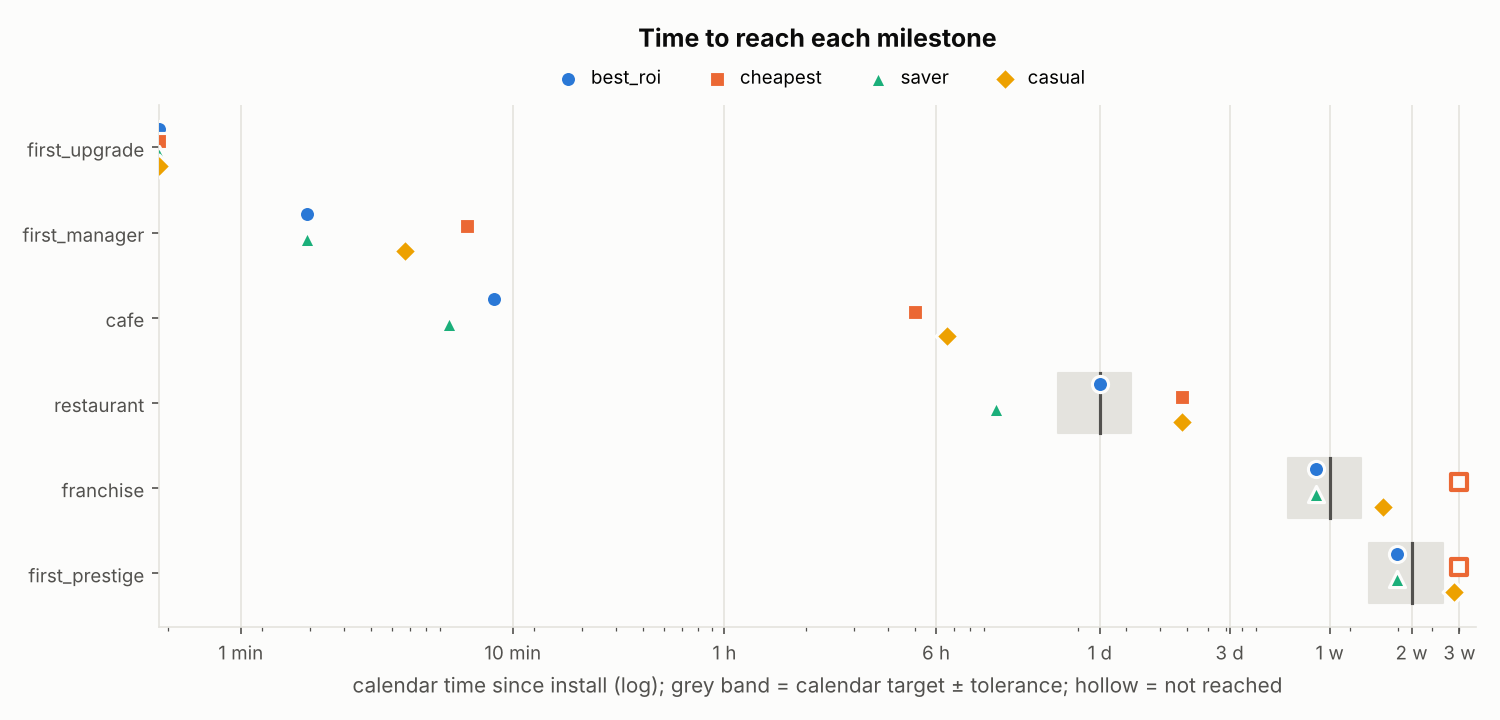
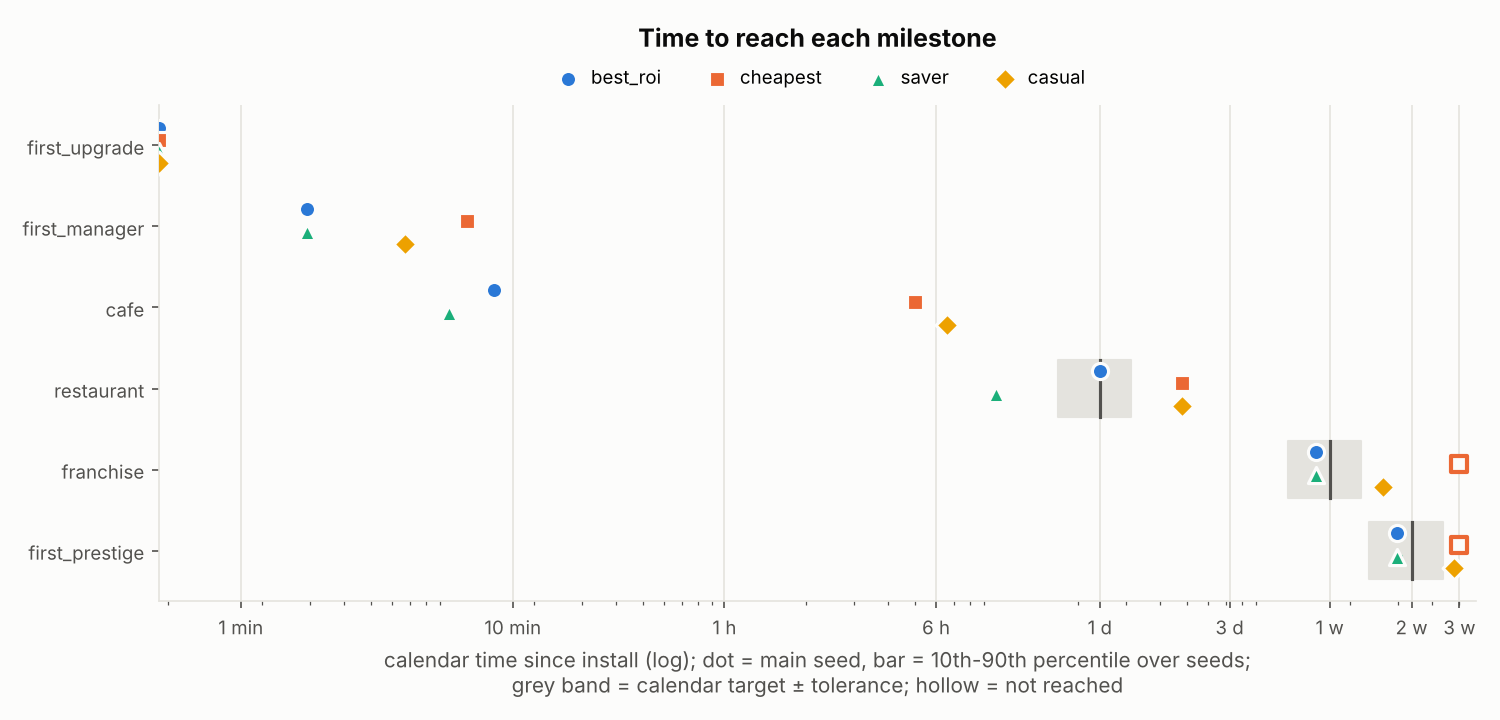
Open item: Monte Carlo milestone spread over all seeds (table, CSV, percentile bars in chart)
Claude-Session: https://claude.ai/code/session_01HGexuzMMLPAYFegdXfW6MP

diff --git a/doner_balance/report.py b/doner_balance/report.py
@@ -28,6 +28,7 @@ class ReportData:
     cfg: EconomyConfig
     results: dict[str, SimResult]
     milestones: pd.DataFrame
+    spread: pd.DataFrame
     zones: pd.DataFrame
     zone_summary: pd.DataFrame
     sources: pd.DataFrame
@@ -121,6 +122,12 @@ def build(
 
     _log("[2/6] analysing milestones, dead zones, income sources ...", quiet)
     ms = A.milestone_table(cfg, results)
+    n_seeds = 1 + len(cfg.simulation.extra_seeds)
+    if n_seeds > 1:
+        _log(f"      milestone spread: {len(cfg.strategies)} strategies x {n_seeds} seeds ...", quiet)
+        spread = A.milestone_spread(cfg, A.milestone_spread_runs(cfg, list(cfg.strategies), jobs=jobs))
+    else:
+        spread = pd.DataFrame(columns=["strategy", "milestone", "seeds", "reached", "median_h", "p10_h", "p90_h"])
     zones = pd.concat([A.dead_zones(cfg, r) for r in results.values()], ignore_index=True)
     zones["stage"] = zones["stage"].map(lambda c: A.stage_name(cfg, c))
     zsum = A.dead_zone_summary(cfg, zones, results)
@@ -159,7 +166,7 @@ def build(
     charts = {
         "income": C.income_chart(results, out_dir / "income_per_second.png"),
         "sources": C.income_sources_chart(sources, out_dir / "income_sources.png"),
-        "milestones": C.milestones_chart(cfg, ms, out_dir / "milestones.png"),
+        "milestones": C.milestones_chart(cfg, ms, out_dir / "milestones.png", spread),
         "dead_zones": C.dead_zones_chart(cfg, zones, list(results), out_dir / "dead_zones.png"),
         "payback": C.payback_chart(results, out_dir / "payback.png"),
     }
@@ -169,6 +176,7 @@ def build(
         )
         impact.to_csv(out_dir / "event_impact.csv", index=False)
     ms.to_csv(out_dir / "milestones.csv", index=False)
+    spread.to_csv(out_dir / "milestone_spread.csv", index=False)
     zones.to_csv(out_dir / "dead_zones.csv", index=False)
     zsum.to_csv(out_dir / "dead_zone_summary.csv", index=False)
     sources.to_csv(out_dir / "income_sources.csv", index=False)
@@ -229,6 +237,7 @@ def build(
         cfg,
         results,
         ms,
+        spread,
         zones,
         zsum,
         sources,
@@ -378,6 +387,26 @@ def render(d: ReportData, config_label: str, export_path: Path | None) -> str:
             row[m] = "—" if not v["reached"] else f"{fmt_h(v['calendar_h'])} ({fmt_h(v['active_min'] / 60)})"
         rows.append(row)
     w(md_table(pd.DataFrame(rows)))
+    if len(d.spread):
+        n_seeds = int(d.spread["seeds"].max())
+        w(
+            f"\nSpread over {n_seeds} seeds (`simulation.seed` + `extra_seeds`): median, and 10th–90th percentile in "
+            "brackets; a percentage means only that share of seeds reached the milestone.\n"
+        )
+        rows = []
+        for strat in d.results:
+            sub_ = d.spread[d.spread["strategy"] == strat].set_index("milestone")
+            row = {"strategy": strat}
+            for m in order:
+                v = sub_.loc[m]
+                if v["reached"] == 0:
+                    row[m] = "—"
+                    continue
+                lo, hi = fmt_h(v["p10_h"]), fmt_h(v["p90_h"])
+                cell = fmt_h(v["median_h"]) + ("" if lo == hi else f" ({lo}–{hi})")
+                row[m] = cell + (f" {v['reached']:.0%}" if v["reached"] < 1 else "")
+            rows.append(row)
+        w(md_table(pd.DataFrame(rows)))
     w(f"\n{_img(d, 'milestones')}\n")
 
     # ---------------------------------------------------------------- pacing
@@ -561,6 +590,7 @@ def render(d: ReportData, config_label: str, export_path: Path | None) -> str:
     w("| file | content |\n|---|---|")
     files = [
         ("milestones.csv", "time to every milestone per strategy (calendar h, play min)"),
+        ("milestone_spread.csv", "median / 10th / 90th percentile of every milestone over all seeds"),
         ("pacing_targets.csv", "targets, actual values, lever, elasticity, suggestion"),
         ("dead_zones.csv / dead_zone_summary.csv", "every dead zone and per-strategy totals"),
         ("income_sources.csv", "coins per day from taps / automation / offline"),

diff --git a/doner_balance/charts.py b/doner_balance/charts.py
@@ -214,7 +214,7 @@ def income_sources_chart(sources: pd.DataFrame, out: Path) -> Path:
     return _save(fig, out)
 
 
-def milestones_chart(cfg: EconomyConfig, table: pd.DataFrame, out: Path) -> Path:
+def milestones_chart(cfg: EconomyConfig, table: pd.DataFrame, out: Path, spread: pd.DataFrame | None = None) -> Path:
     _style()
     names = list(dict.fromkeys(table["strategy"]))
     colors, markers = strategy_colors(names), strategy_markers(names)
@@ -225,6 +225,18 @@ def milestones_chart(cfg: EconomyConfig, table: pd.DataFrame, out: Path) -> Path
         d = table[table["strategy"] == name].set_index("milestone").reindex(ms)
         y = np.arange(len(ms)) + off
         x = d["calendar_h"].clip(lower=1 / 120)  # 30 s floor for the log axis
+        if spread is not None and len(spread):
+            sp = spread[spread["strategy"] == name].set_index("milestone").reindex(ms)
+            ok = sp["p10_h"].notna().to_numpy()
+            ax.hlines(
+                y[ok],
+                sp["p10_h"].clip(lower=1 / 120)[ok],
+                sp["p90_h"].clip(lower=1 / 120)[ok],
+                color=colors[name],
+                linewidth=2,
+                alpha=0.45,
+                zorder=2,
+            )
         ax.scatter(
             x, y, s=60, color=colors[name], marker=markers[name], edgecolor=SURFACE, linewidth=1.5, label=name, zorder=3
         )
@@ -257,7 +269,10 @@ def milestones_chart(cfg: EconomyConfig, table: pd.DataFrame, out: Path) -> Path
     ax.set_xticks([ticks[i] for i in keep])
     ax.set_xticklabels([labels[i] for i in keep])
     ax.set_xlim(1 / 120, cfg.simulation.days * 24 * 1.15)
-    ax.set_xlabel("calendar time since install (log); grey band = calendar target ± tolerance; hollow = not reached")
+    ax.set_xlabel(
+        "calendar time since install (log); dot = main seed, bar = 10th-90th percentile over seeds;\n"
+        "grey band = calendar target ± tolerance; hollow = not reached"
+    )
     ax.set_title("Time to reach each milestone", pad=28)
     ax.legend(loc="lower center", bbox_to_anchor=(0.5, 1.0), ncol=len(names), handletextpad=0.2)
     ax.grid(axis="y", visible=False)

diff --git a/doner_balance/analysis.py b/doner_balance/analysis.py
@@ -265,11 +265,43 @@ def event_impact_runs(cfg: EconomyConfig, strategies: list[str], jobs: int = 1) 
     variants: list[tuple[str, ...]] = list(dict.fromkeys([(), tuple(ids), *[(i,) for i in ids]]))
     cfg_json = cfg.model_dump_json()
     work = [_Job(cfg_json, s, seed, v) for s in strategies for seed in seeds for v in variants]
-    if jobs > 1:
+    return pd.DataFrame(_run_all(work, jobs))
+
+
+def _run_all(work: list[_Job], jobs: int) -> list[dict]:
+    if jobs > 1 and len(work) > 1:
         with ProcessPoolExecutor(max_workers=jobs) as ex:
-            rows = list(ex.map(_run_job, work))
-    else:
-        rows = [_run_job(j) for j in work]
+            return list(ex.map(_run_job, work))
+    return [_run_job(j) for j in work]
+
+
+def milestone_spread_runs(cfg: EconomyConfig, strategies: list[str], jobs: int = 1) -> pd.DataFrame:
+    """Every strategy over every seed (``simulation.seed`` + ``extra_seeds``), all events on."""
+    seeds = [cfg.simulation.seed, *cfg.simulation.extra_seeds]
+    cfg_json = cfg.model_dump_json()
+    return pd.DataFrame(_run_all([_Job(cfg_json, s, seed, ()) for s in strategies for seed in seeds], jobs))
+
+
+def milestone_spread(cfg: EconomyConfig, runs: pd.DataFrame) -> pd.DataFrame:
+    """Median and 10th/90th percentile of every milestone (calendar hours) over the seeds.
+
+    ``reached`` is the share of seeds that reached the milestone; percentiles use only those.
+    """
+    rows = []
+    for strat, g in runs.groupby("strategy", sort=False):
+        for m in milestone_names(cfg):
+            v = pd.to_numeric(g[m], errors="coerce").dropna()
+            rows.append(
+                {
+                    "strategy": strat,
+                    "milestone": m,
+                    "seeds": len(g),
+                    "reached": len(v) / len(g),
+                    "median_h": float(v.median()) if len(v) else np.nan,
+                    "p10_h": float(v.quantile(0.1)) if len(v) else np.nan,
+                    "p90_h": float(v.quantile(0.9)) if len(v) else np.nan,
+                }
+            )
     return pd.DataFrame(rows)
 
 

diff --git a/tests/test_regressions.py b/tests/test_regressions.py
@@ -281,3 +281,22 @@ def test_cli_write_config_refuses_overrides(tmp_path, capsys):
     ov.write_text("tiers.cafe.unlock_cost: 40000\n")
     rc, out = _run_cli(["--overrides", str(ov), "tune", "--apply", str(tmp_path / "o.yaml"), "--write-config"], capsys)
     assert rc == 2 and "cannot be combined" in out.err
+
+
+# --------------------------------------------------------------------------- open items
+
+
+def test_milestone_spread_over_seeds(default_cfg):
+    from doner_balance.analysis import milestone_spread, milestone_spread_runs
+
+    cfg = default_cfg.model_copy(deep=True)
+    cfg.simulation.days = 2
+    cfg.simulation.extra_seeds = [1, 2]
+    runs = milestone_spread_runs(cfg, ["best_roi", "casual"], jobs=1)
+    assert len(runs) == 6
+    sp = milestone_spread(cfg, runs)
+    row = sp[(sp["strategy"] == "best_roi") & (sp["milestone"] == "cafe")].iloc[0]
+    assert row["seeds"] == 3 and row["reached"] == 1.0
+    assert row["p10_h"] <= row["median_h"] <= row["p90_h"]
+    never = sp[(sp["strategy"] == "casual") & (sp["milestone"] == "franchise")].iloc[0]
+    assert never["reached"] == 0 and math.isnan(never["median_h"])

diff --git a/reports/REPORT.md b/reports/REPORT.md
@@ -41,6 +41,15 @@ Calendar time since install (play time in brackets). Strategies:
 | saver | 4 s (4 s) | 1.8 min (1.8 min) | 5.8 min (5.8 min) | 10.0 h (20.0 min) | 6.2 d (3.2 h) | 12.4 d (6.3 h) |
 | casual | 12 s (12 s) | 4.0 min (4.0 min) | 6.6 h (8.4 min) | 2.0 d (20.0 min) | 11.0 d (1.8 h) | 20.0 d (3.3 h) |
 
+Spread over 5 seeds (`simulation.seed` + `extra_seeds`): median, and 10th–90th percentile in brackets; a percentage means only that share of seeds reached the milestone.
+
+| strategy | first_upgrade | first_manager | cafe | restaurant | franchise | first_prestige |
+|---|---|---|---|---|---|---|
+| best_roi | 4 s | 1.8 min | 8.5 min | 24.0 h | 6.2 d | 13.0 d (12.4 d–13.0 d) |
+| cheapest | 4 s | 6.8 min | 5.0 h | 2.0 d | — | — |
+| saver | 4 s | 1.8 min | 5.8 min | 10.0 h | 6.2 d | 13.0 d (12.4 d–13.0 d) |
+| casual | 12 s | 4.0 min | 6.6 h | 2.0 d | 10.3 d (10.1 d–11.0 d) | 20.0 d (19.4 d–20.0 d) |
+
 ![Dot chart: calendar time for each strategy to reach each milestone, log scale, with target bands](milestones.png)
 
 ## 2. Pacing vs targets
@@ -218,6 +227,7 @@ Sorted by severity (0–100). Rules live in `doner_balance/recommend.py`; thresh
 | file | content |
 |---|---|
 | `milestones.csv` | time to every milestone per strategy (calendar h, play min) |
+| `milestone_spread.csv` | median / 10th / 90th percentile of every milestone over all seeds |
 | `pacing_targets.csv` | targets, actual values, lever, elasticity, suggestion |
 | `dead_zones.csv / dead_zone_summary.csv` | every dead zone and per-strategy totals |
 | `income_sources.csv` | coins per day from taps / automation / offline |
@@ -230,4 +240,4 @@ Sorted by severity (0–100). Rules live in `doner_balance/recommend.py`; thresh
 | `recommendations.csv` | the findings above as a table |
 | `export/economy.json` | Godot export of this config (see `docs/GODOT_EXPORT.md`) |
 
-_Generated in 22 s._
+_Generated in 30 s._
